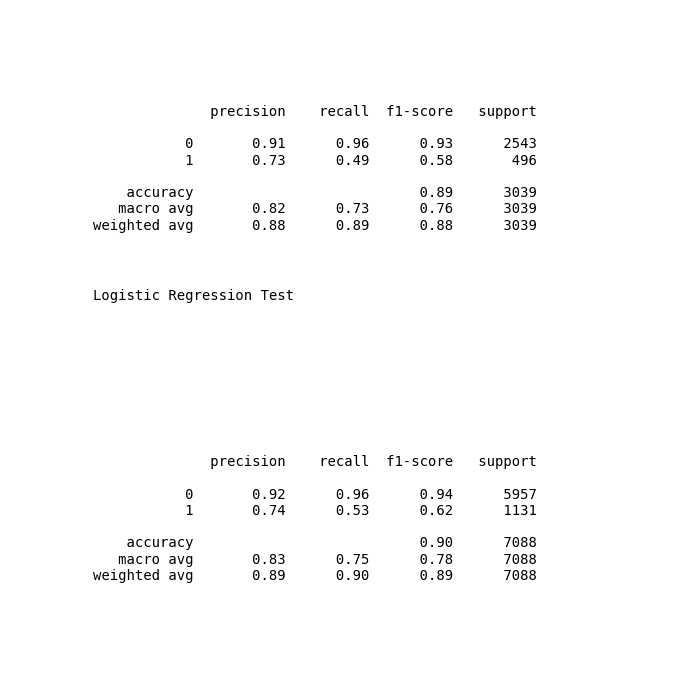
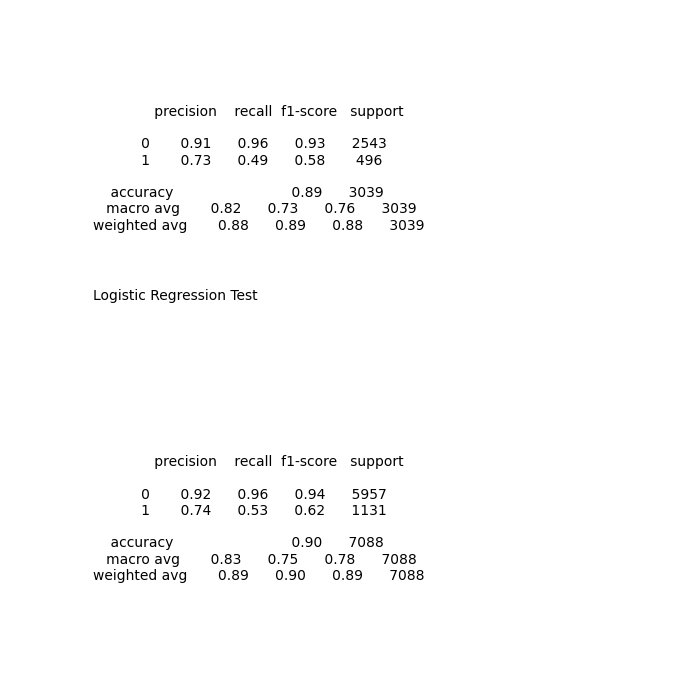
added docstrings etc

diff --git a/scripts/churn_library.py b/scripts/churn_library.py
@@ -2,8 +2,8 @@
 Author: Maciej N.
 Date Created: 2024-10-24
 
-This module stores functions and methods needed to perform churn modeling, 
-including data loading, exploratory data analysis (EDA), feature engineering, 
+This module stores functions and methods needed to perform churn modeling,
+including data loading, exploratory data analysis (EDA), feature engineering,
 and model training.
 """
 
@@ -35,7 +35,7 @@ class ChurnPrediction:
     def __init__(self, data_path=None):
         """
         Initialize the class with an optional data path to load the dataset.
-        
+
         Input:
         - data_path: str, default None. Path to the CSV file containing customer data.
         """
@@ -47,7 +47,7 @@ class ChurnPrediction:
     def check_folder_exists(folder_path):
         """
         Check if a folder exists; if not, create it.
-        
+
         Input:
         - folder_path: str. The path of the folder to check or create.
         """
@@ -57,7 +57,7 @@ class ChurnPrediction:
     def import_data(self):
         """
         Load data from the provided CSV file path into a pandas DataFrame.
-        
+
         Output:
         - self.df: pandas DataFrame containing the loaded data.
         """
@@ -65,9 +65,9 @@ class ChurnPrediction:
 
     def calculate_churn(self):
         """
-        Add a 'Churn' column to the DataFrame based on the 'Attrition_Flag' column. 
+        Add a 'Churn' column to the DataFrame based on the 'Attrition_Flag' column.
         A value of 1 is assigned if 'Attrition_Flag' indicates 'Attrited Customer', otherwise 0.
-        
+
         Output:
         - self.df: pandas DataFrame with a new 'Churn' column.
         """
@@ -107,12 +107,20 @@ class ChurnPrediction:
         self.save_plot(df["Customer_Age"].hist, "./images/eda/customer_age.png")
 
         # Plot the marital status bar chart
-        self.save_plot(df.Marital_Status.value_counts("normalize").plot, 
-                       "./images/eda/marital_status.png", kind="bar")
+        self.save_plot(
+            df.Marital_Status.value_counts("normalize").plot,
+            "./images/eda/marital_status.png",
+            kind="bar",
+        )
 
         # Plot the total transaction count density plot
-        self.save_plot(sns.histplot, "./images/eda/total_trans_ct.png", 
-                       df["Total_Trans_Ct"], stat="density", kde=True)
+        self.save_plot(
+            sns.histplot,
+            "./images/eda/total_trans_ct.png",
+            df["Total_Trans_Ct"],
+            stat="density",
+            kde=True,
+        )
 
         # Plot the correlation heatmap
         plt.figure(figsize=(20, 10))  # Heatmap has a different setup
@@ -123,7 +131,7 @@ class ChurnPrediction:
     @staticmethod
     def encoder_helper(df, category_lst, response):
         """
-        Helper function to encode categorical columns by calculating the proportion 
+        Helper function to encode categorical columns by calculating the proportion
         of churn for each category in the specified column.
 
         Input:
@@ -160,7 +168,9 @@ class ChurnPrediction:
         x = pd.DataFrame()
         x[keep_cols] = df[keep_cols]
 
-        x_train, x_test, y_train, y_test = train_test_split(x, y, test_size=0.3, random_state=42)
+        x_train, x_test, y_train, y_test = train_test_split(
+            x, y, test_size=0.3, random_state=42
+        )
 
         return x, x_train, x_test, y_train, y_test
 
@@ -224,20 +234,52 @@ class ChurnPrediction:
 
         # Plot and save RandomForest results
         plt.rc("figure", figsize=(7, 7))
-        plt.text(0.01, 1.25, "Random Forest Train", {"fontsize": 10}, fontproperties="monospace")
-        plt.text(0.01, 0.05, str(classification_report(y_test, y_test_preds_rf)), {"fontsize": 10})
+        plt.text(
+            0.01,
+            1.25,
+            "Random Forest Train",
+            {"fontsize": 10},
+            fontproperties="monospace",
+        )
+        plt.text(
+            0.01,
+            0.05,
+            str(classification_report(y_test, y_test_preds_rf)),
+            {"fontsize": 10},
+        )
         plt.text(0.01, 0.6, "Random Forest Test", {"fontsize": 10})
-        plt.text(0.01, 0.7, str(classification_report(y_train, y_train_preds_rf)), {"fontsize": 10})
+        plt.text(
+            0.01,
+            0.7,
+            str(classification_report(y_train, y_train_preds_rf)),
+            {"fontsize": 10},
+        )
         plt.axis("off")
         plt.savefig("./images/results/rf_results.png")
         plt.close()
 
         # Plot and save LogisticRegression results
         plt.rc("figure", figsize=(7, 7))
-        plt.text(0.01, 1.25, "Logistic Regression Train", {"fontsize": 10}, fontproperties="monospace")
-        plt.text(0.01, 0.05, str(classification_report(y_train, y_train_preds_lr)), {"fontsize": 10})
+        plt.text(
+            0.01,
+            1.25,
+            "Logistic Regression Train",
+            {"fontsize": 10},
+            fontproperties="monospace",
+        )
+        plt.text(
+            0.01,
+            0.05,
+            str(classification_report(y_train, y_train_preds_lr)),
+            {"fontsize": 10},
+        )
         plt.text(0.01, 0.6, "Logistic Regression Test", {"fontsize": 10})
-        plt.text(0.01, 0.7, str(classification_report(y_test, y_test_preds_lr)), {"fontsize": 10})
+        plt.text(
+            0.01,
+            0.7,
+            str(classification_report(y_test, y_test_preds_lr)),
+            {"fontsize": 10},
+        )
         plt.axis("off")
         plt.savefig("./images/results/lr_results.png")
         plt.close()

diff --git a/scripts/churn_script_logging_and_test.py b/scripts/churn_script_logging_and_test.py
@@ -21,10 +21,10 @@ def churn_prediction_fixture():
 
     Purpose:
         Initialize the ChurnPrediction instance, import data, and calculate churn.
-    
+
     Inputs:
         None (retrieves the path and settings from constants).
-    
+
     Outputs:
         cp (ChurnPrediction): Instance of ChurnPrediction with imported data.
     """
@@ -39,7 +39,7 @@ class TestChurnPrediction:
     Test suite for ChurnPrediction class methods.
 
     This class runs various tests on key methods of the ChurnPrediction
-    class to ensure functionality, including importing data, encoding 
+    class to ensure functionality, including importing data, encoding
     categorical columns, feature engineering, and model training.
 
     Author: Maciej N.
@@ -53,10 +53,10 @@ class TestChurnPrediction:
 
         Purpose:
             To initialize the test class with an instance of ChurnPrediction.
-        
+
         Inputs:
             churn_prediction_fixture (ChurnPrediction): Instance created by the fixture.
-        
+
         Outputs:
             None.
         """
@@ -69,13 +69,13 @@ class TestChurnPrediction:
         Purpose:
             Ensure that the data is imported successfully and that the DataFrame
             is not empty.
-        
+
         Inputs:
             None.
-        
+
         Outputs:
             None. (Assertions are used to verify the conditions)
-        
+
         Logging:
             Logs success if the data is imported properly, otherwise logs the error.
         """
@@ -94,13 +94,13 @@ class TestChurnPrediction:
         Purpose:
             To verify that the encoder_helper method successfully encodes all
             categorical columns and adds new columns without null values.
-        
+
         Inputs:
             None. (Uses instance data and predefined categorical columns from constants)
-        
+
         Outputs:
             None. (Assertions are used to verify the conditions)
-        
+
         Logging:
             Logs success if encoding is done correctly, otherwise logs the error.
         """
@@ -136,13 +136,13 @@ class TestChurnPrediction:
         Purpose:
             To ensure that the feature engineering method splits the data
             correctly into features and target sets, and provides train/test splits.
-        
+
         Inputs:
             None. (Uses instance data and predefined keep columns)
-        
+
         Outputs:
             None. (Assertions are used to verify the conditions)
-        
+
         Logging:
             Logs success if the feature engineering is done correctly, otherwise logs the error.
         """
@@ -172,13 +172,13 @@ class TestChurnPrediction:
         Purpose:
             To verify that the model training method successfully trains models
             and generates predictions based on a small subset of data.
-        
+
         Inputs:
             None. (Uses a subset of the instance data)
-        
+
         Outputs:
             None. (Assertions are used to verify the conditions)
-        
+
         Logging:
             Logs success if models are trained correctly, otherwise logs the error.
         """
@@ -200,9 +200,7 @@ class TestChurnPrediction:
                 x_train, x_test, y_train
             )
             assert len(preds) == 4  # Should return 4 files
-            logging.info(
-                "Models trained successfully and predictions generated."
-            )
+            logging.info("Models trained successfully and predictions generated.")
         except FileNotFoundError as e:
             logging.error(
                 "File not found, run modeling first: %s",
@@ -220,10 +218,10 @@ class TestChurnPrediction:
 
         Inputs:
             None.
-        
+
         Outputs:
             None. (The test checks if the logging mechanism works)
-        
+
         Logging:
             Logs a fake error for testing purposes.
         """

diff --git a/run/run_churn_model.py b/run/run_churn_model.py
@@ -3,8 +3,8 @@ Author: Maciej N.
 Date Created: 2024-10-24
 
 This script executes the ChurnPrediction class methods from the churn_library module
-and uses constants from the constants.py file. It performs the full process from 
-data import, churn calculation, EDA, feature engineering, model training, and result 
+and uses constants from the constants.py file. It performs the full process from
+data import, churn calculation, EDA, feature engineering, model training, and result
 visualization. The script logs the progress and outcomes in a separate log file.
 
 To run this script, use the following command:
@@ -149,5 +149,5 @@ if __name__ == "__main__":
     # Logging the total time taken for execution
     logging.info(
         "Modeling pipeline finished successfully. It took: %s minutes",
-        (time.time() - start_time) / 60
+        (time.time() - start_time) / 60,
     )

diff --git a/run/constants.py b/run/constants.py
@@ -3,7 +3,7 @@ Author: Maciej N.
 Date Created: 2024-10-24
 
 This module contains constant variables used in the churn prediction library.
-These constants include paths to data, lists of quantitative and categorical 
+These constants include paths to data, lists of quantitative and categorical
 columns, and lists of columns to be used for feature engineering in model training.
 """
 

diff --git a/scripts/conftest.py b/scripts/conftest.py
@@ -1,5 +1,5 @@
 """
-Author: Maciej N. 
+Author: Maciej N.
 Date Created: 2024-10-24
 
 This conftest module ensures that logging is configured before running tests in the churn prediction library.
@@ -24,6 +24,7 @@ logging.basicConfig(
     filemode="w",
     format="%(asctime)s - %(name)s - %(levelname)s - %(message)s",
 )
+
 
 @pytest.fixture(autouse=True)
 def run_around_tests():
